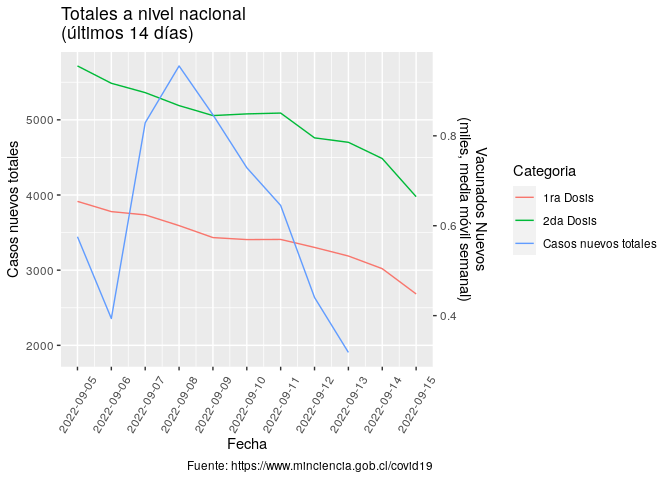
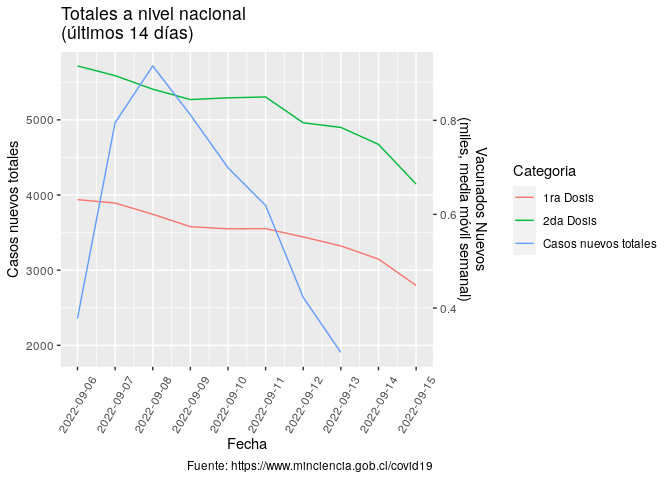
Re-build Rmarkdown files

diff --git a/README.md b/README.md
@@ -3,7 +3,7 @@
 
 Ejemplo de uso de total\_casos de COVID recopilados por el Ministerio de
 Ciencia de Chile <https://www.minciencia.gob.cl/covid19>. Última
-actualización: 2022-09-18
+actualización: 2022-09-19
 
 ## Visualización desde el comienzo de la pandemia
 
